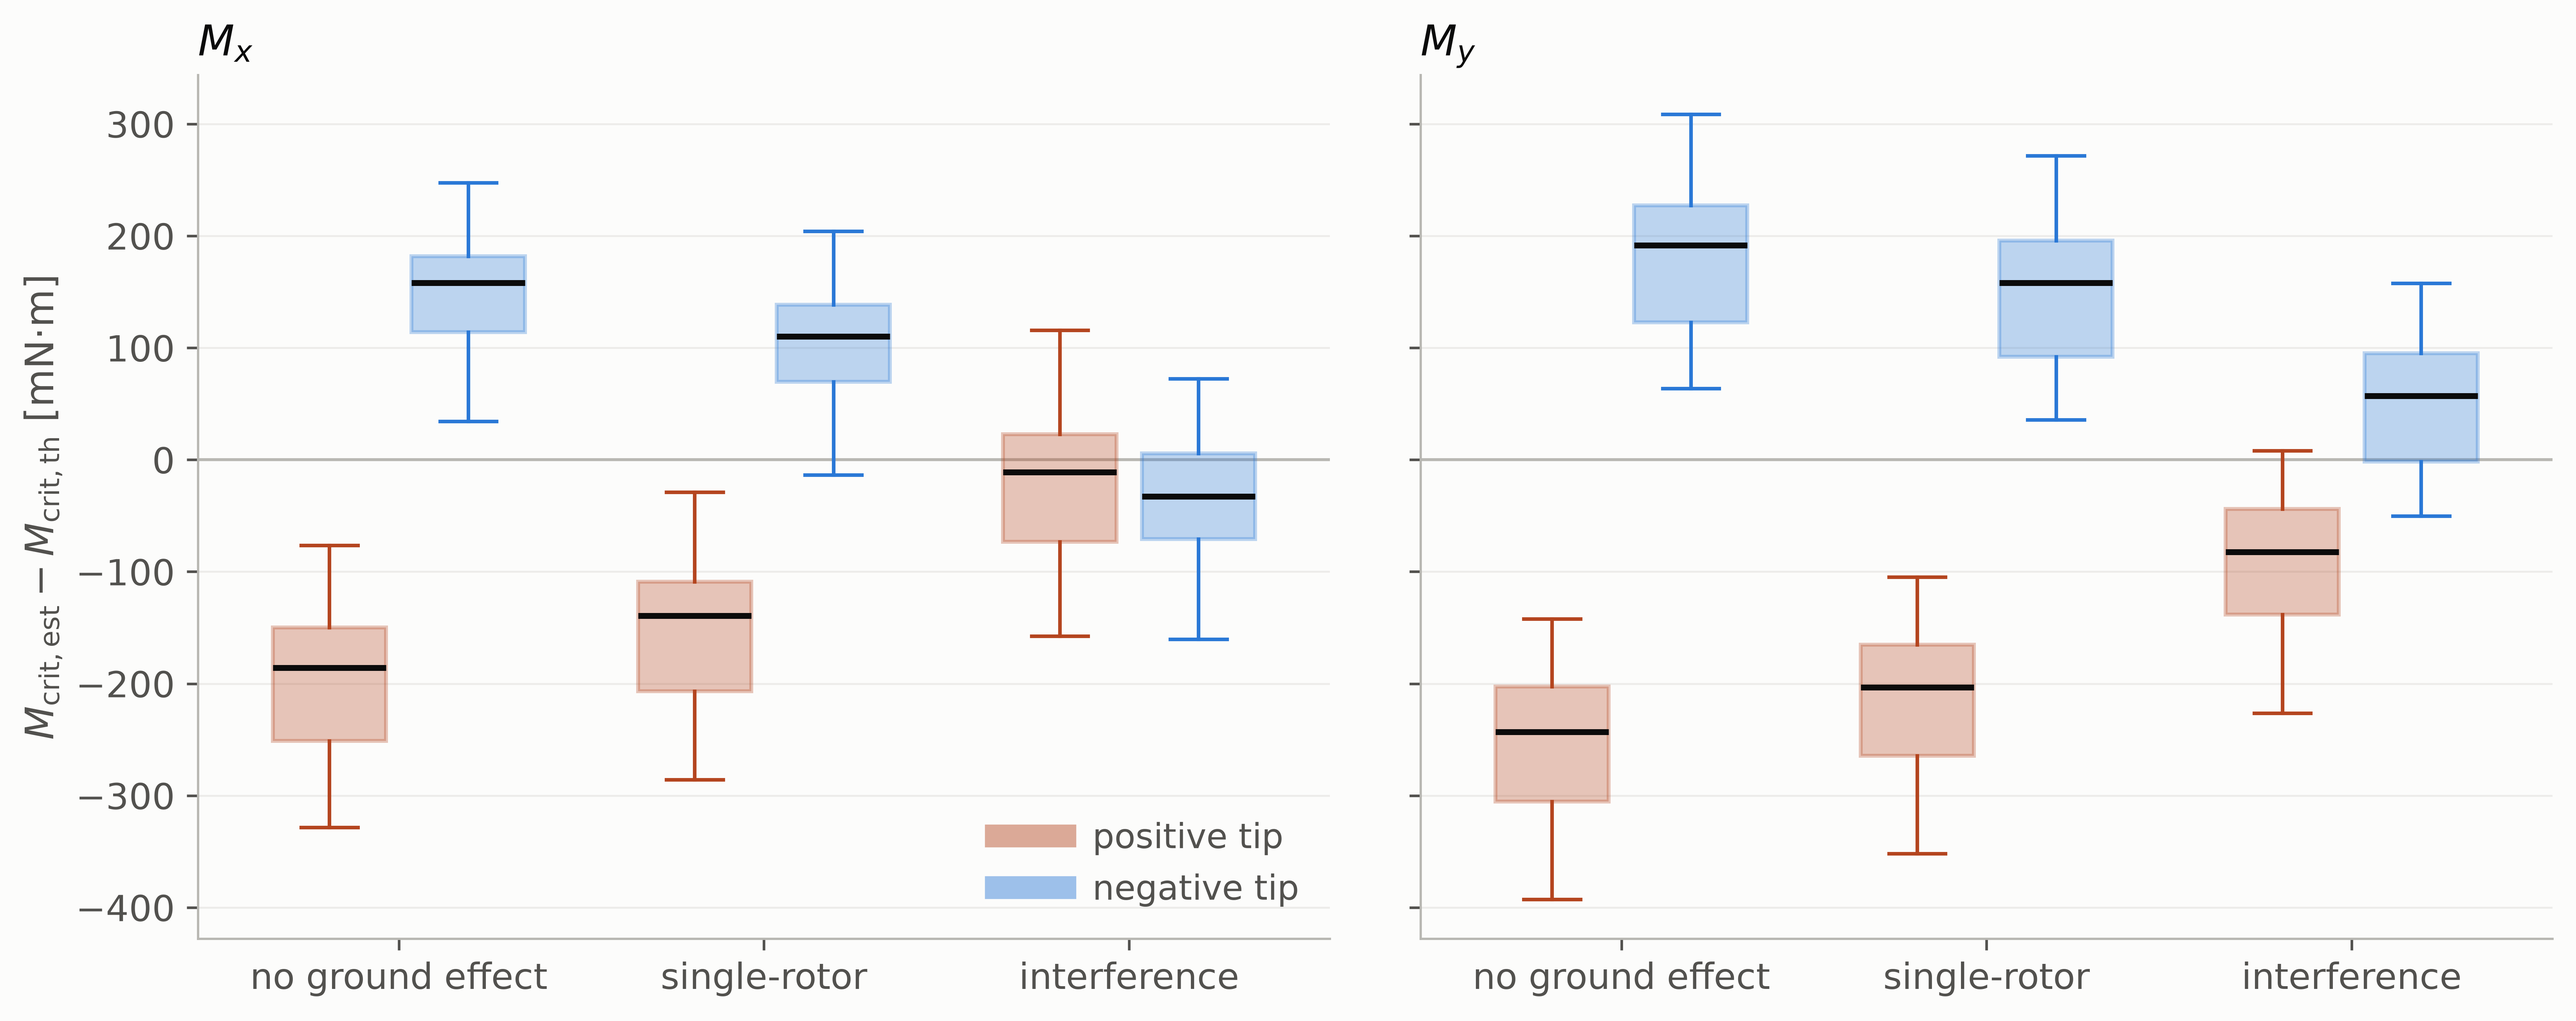
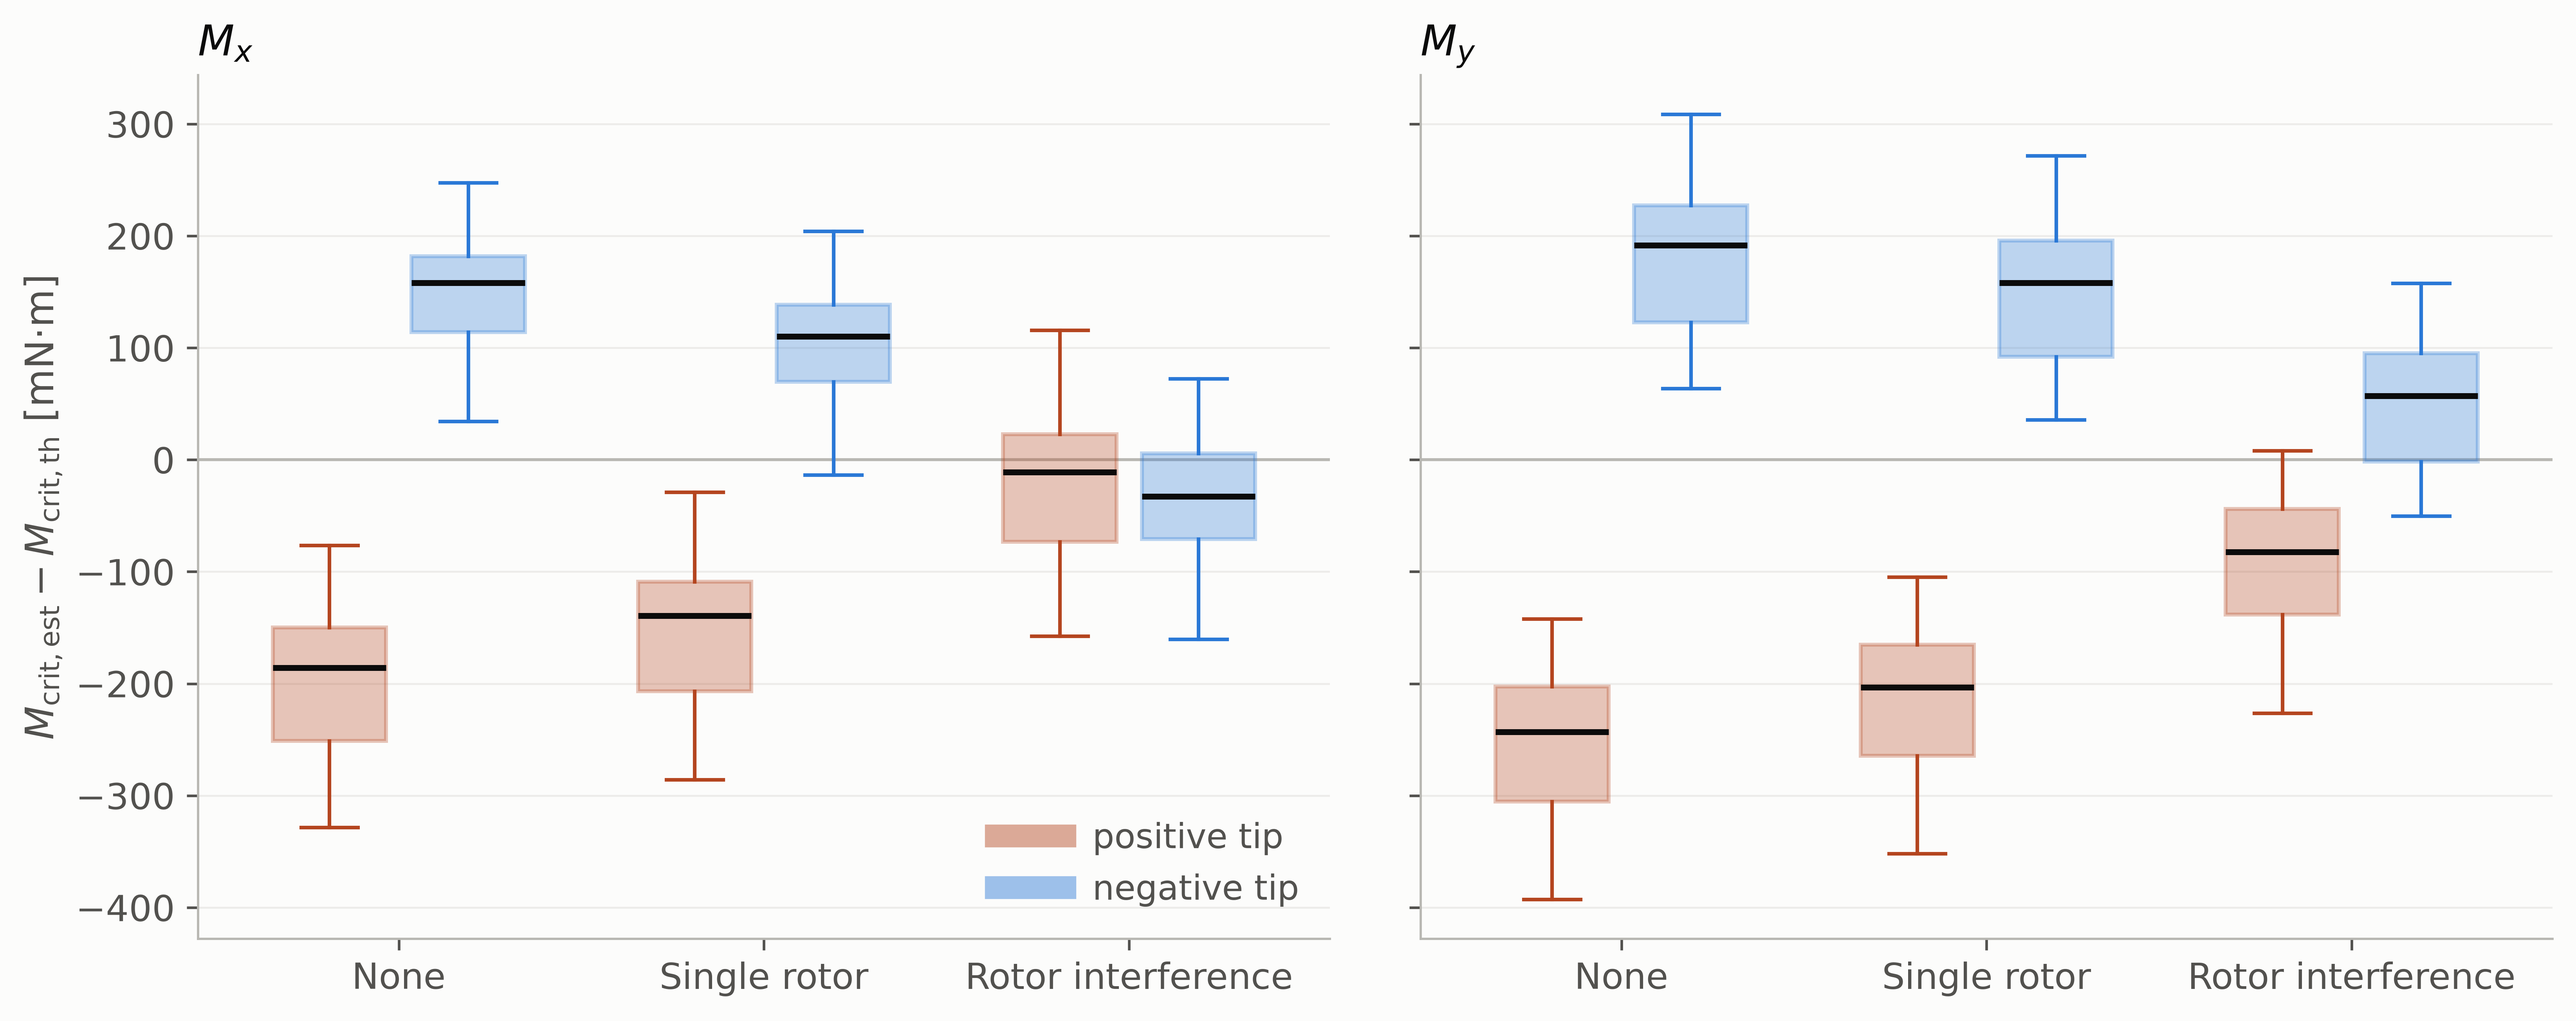
Align the treatment tick labels with the static-figure legend
None / Single rotor / Rotor interference.

diff --git a/analysis/mcrit_residual_boxplot.py b/analysis/mcrit_residual_boxplot.py
@@ -97,9 +97,9 @@ OUT = Path(sys.argv[2]) if len(sys.argv) > 2 else Path('docs')
 
 POS, NEG = '#b4451f', '#2a78d6'
 INK, INK2, MUTED, SURF = '#0b0b0b', '#52514e', '#b8b7b2', '#fcfcfb'
-TREAT = (('resid_none_mNm', 'no ground effect'),
-         ('resid_single_mNm', 'single-rotor'),
-         ('resid_interf_mNm', 'interference'))
+TREAT = (('resid_none_mNm', 'None'),
+         ('resid_single_mNm', 'Single rotor'),
+         ('resid_interf_mNm', 'Rotor interference'))
 
 rows = list(csv.DictReader(open(SRC)))
 if not rows:
